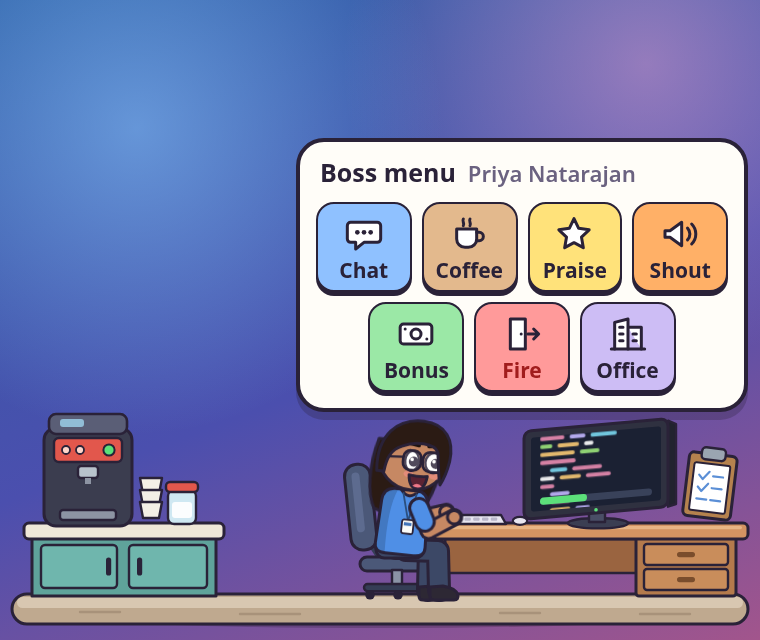
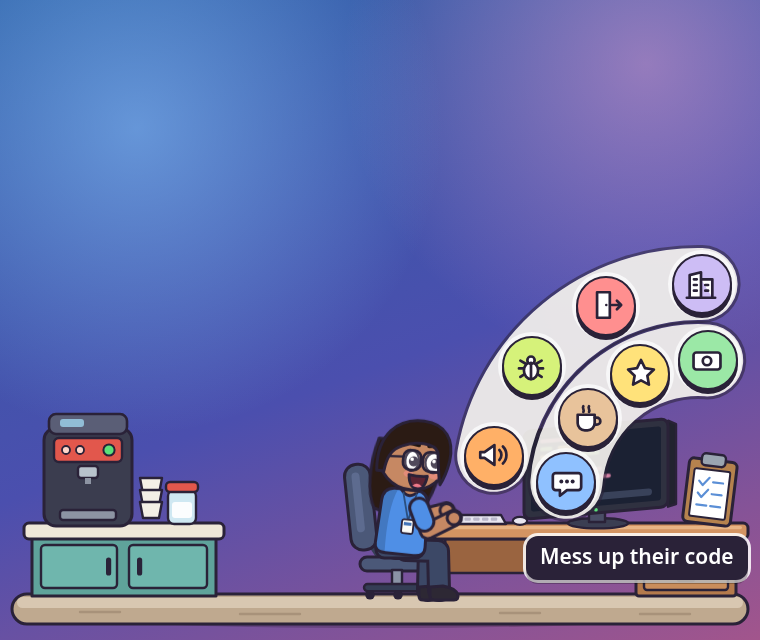
Refresh README screenshots

diff --git a/README.md b/README.md
@@ -27,9 +27,9 @@ Close the app and they go home; time stops until you open it again.
 
 | | |
 |---|---|
-| ![Boss menu](docs/screenshots/boss-menu.png) | ![Shock](docs/screenshots/shock.png) |
-| ![Hover card](docs/screenshots/hover-card.png) | ![Rage-quit](docs/screenshots/rage-quit.png) |
-| ![Hiring](docs/screenshots/office-hire.png) | ![Projects](docs/screenshots/office-projects.png) |
+| ![Boss menu](docs/screenshots/boss-menu.png) | ![Chat on the desk](docs/screenshots/desk-chat.png) |
+| ![Messing up their code](docs/screenshots/mess-up-code.png) | ![After an insult](docs/screenshots/react-cruel.png) |
+| ![Rage-quit](docs/screenshots/rage-quit.png) | ![Office panel: hiring](docs/screenshots/office-hire.png) |
 
 (The purple wallpaper is only for screenshots; on your desktop the scene floats
 over whatever is behind it.)
